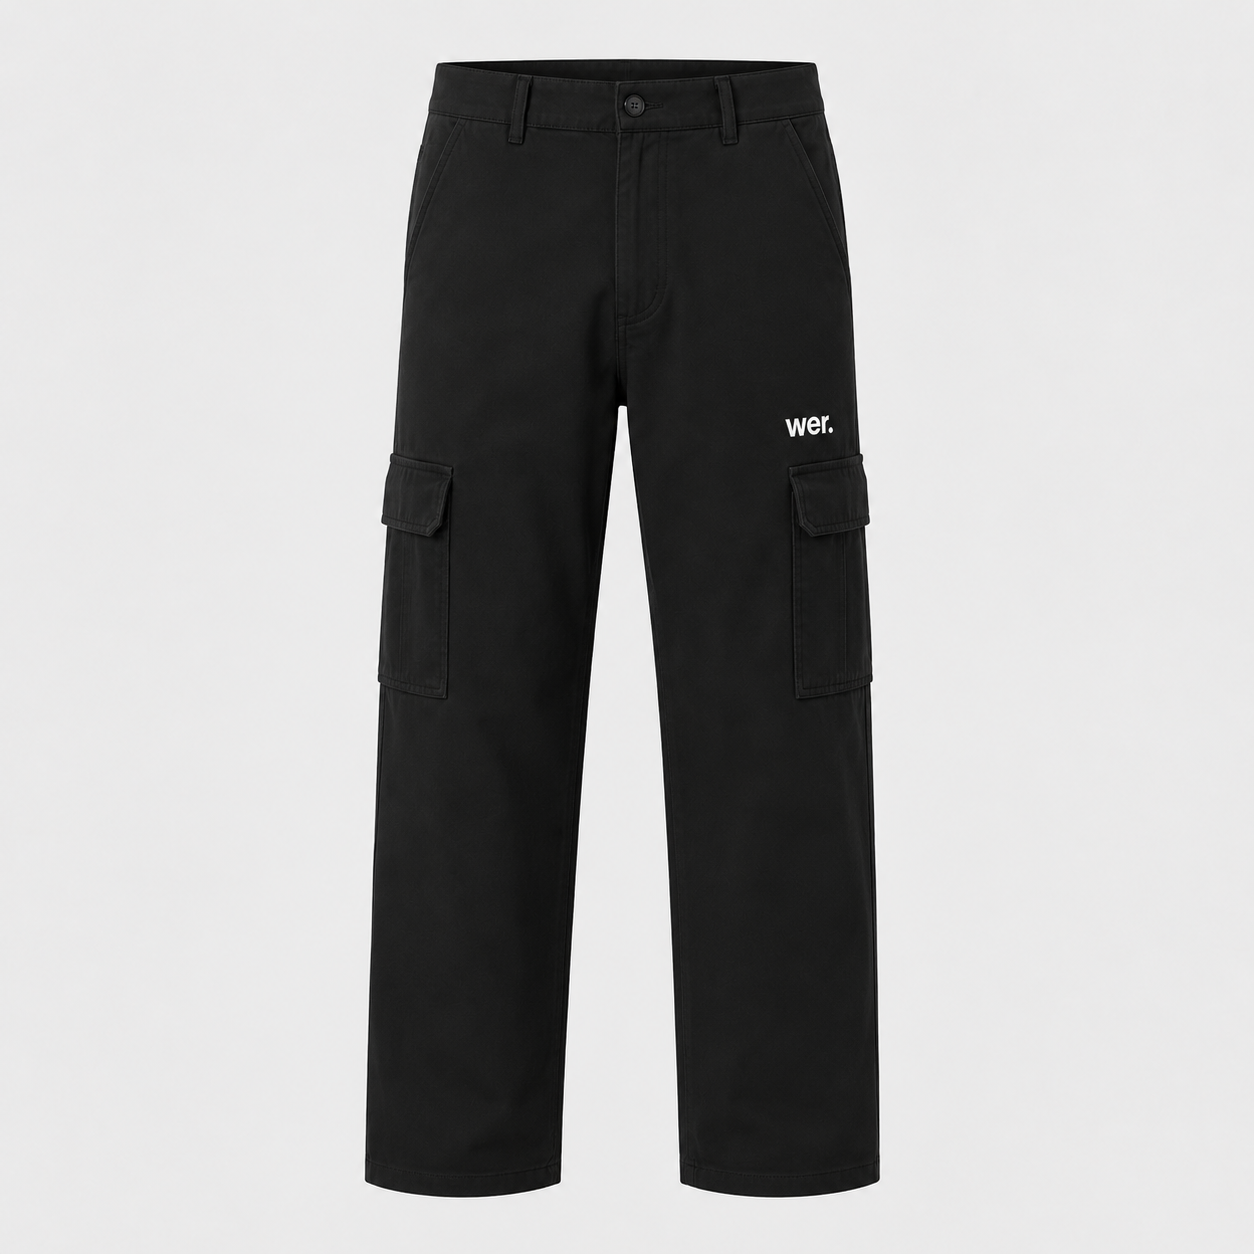
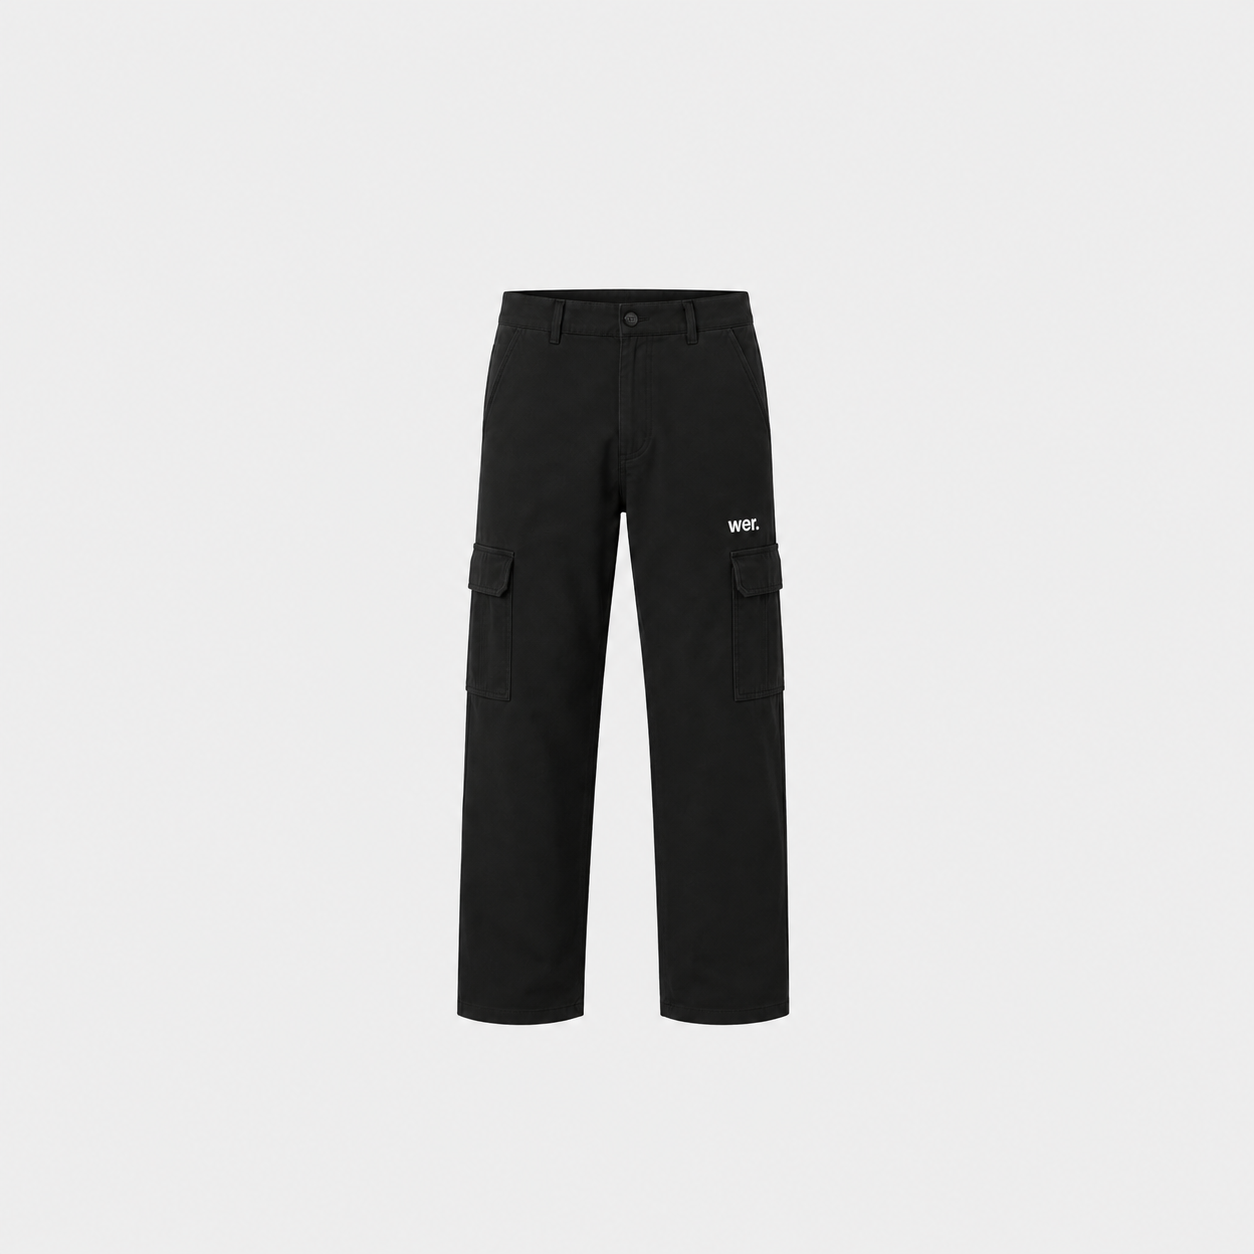
update

Changed region(s): [[0.2799, 0.0311, 0.7153, 0.9641]]

diff --git a/vite.config.js b/vite.config.js
@@ -18,6 +18,10 @@ export default defineConfig({
         },
     },
     server: {
+        host: '0.0.0.0',
+        hmr: {
+            host: '192.168.1.3',
+        },
         watch: {
             ignored: ['**/storage/framework/views/**'],
         },

diff --git a/resources/css/app.css b/resources/css/app.css
@@ -34,7 +34,7 @@
         @apply h-[100svh] w-full p-[5px] md:p-[10px];
     }
     .hero-inner {
-        @apply relative w-full h-full overflow-hidden rounded-lg md:rounded-xl flex items-center justify-center;
+        @apply relative w-full h-full overflow-hidden rounded-xl md:rounded-4xl flex items-center justify-center;
         border-bottom-right-radius: 0;
         border: none;
     }

diff --git a/resources/views/shop/home.blade.php b/resources/views/shop/home.blade.php
@@ -2,7 +2,8 @@
 @section('content')
     <section class="hero-home">
         <div class="hero-inner">
-            <img src="{{ asset('images/hero.png') }}" alt="Hero Background" class="hero-video">
+            <img src="{{ asset('images/hero.png') }}" alt="Hero Background"
+                class="hero-video object-[75%_center] md:object-center">
             <div class="absolute bottom-3 md:bottom-9 left-0 z-10 text-left text-white px-3 md:px-9 max-w-5xl">
                 <h1 class="text-2xl md:text-6xl font-light mb-2 tracking-tight">Moroccan Roots. Modern Essentials.</h1>
                 <p class="text-sm md:text-lg mb-5 font-light text-white/70 max-w-2xl tracking-tighter">
@@ -75,65 +76,78 @@
     </section>
 
     <!-- Products Section -->
-    <section id="products-section" class="pt-12 section-padding scroll-mt-20">
+    <section id="products-section" class="pt-3 md section-padding scroll-mt-20">
         <div class="w-full">
             @if($products->count() > 0)
-            <div class="grid grid-cols-2 gap-3 md:gap-12">
-                @foreach($products as $index => $product)
-                    <a href="{{ route('products.show', $product->slug) }}"
-                        class="group relative aspect-square overflow-hidden rounded-xl md:rounded-4xl bg-neutral-100">
-                        <img src="{{ $product->main_image }}" alt="{{ $product->name }}"
-                            class="absolute inset-0 w-full h-full object-cover transition-transform duration-1000">
+                <div class="grid grid-cols-1 md:grid-cols-2 gap-3 md:gap-12">
+                    @foreach($products as $index => $product)
+                        <a href="{{ route('products.show', $product->slug) }}"
+                            class="group relative aspect-square overflow-hidden rounded-xl md:rounded-4xl bg-neutral-100 border-2 border-neutral-200">
+                            <img src="{{ $product->main_image }}" alt="{{ $product->name }}"
+                                class="absolute inset-0 w-full h-full object-cover transition-transform duration-1000">
 
-                        <!-- Content -->
-                        <div class="absolute inset-0">
-                            <!-- Top Right: View Details (Hero Style) -->
-                            <div class="absolute top-4 right-4 md:top-6 md:right-6 z-20">
-                                <div
-                                    class="inline-flex items-center gap-3 md:gap-5 pl-4 pr-1 py-1 rounded-full bg-white text-black font-light transition-all duration-500 text-[10px] md:text-sm tracking-tight opacity-0 group-hover:opacity-100 translate-y-2 group-hover:translate-y-0">
-                                    <span class="hidden md:inline">View Details</span>
+                            <!-- Content -->
+                            <div class="absolute inset-0">
+                                <!-- Top Right: View Details (Hero Style) -->
+                                <div class="absolute top-4 right-4 md:top-6 md:right-6 z-20">
                                     <div
-                                        class="w-7 h-7 md:w-10 md:h-10 bg-[#0a0a0a] rounded-full flex items-center justify-center overflow-hidden relative">
+                                        class="inline-flex items-center gap-3 md:gap-5 pl-4 pr-1 py-1 rounded-full bg-white text-black font-light transition-all duration-500 text-[10px] md:text-sm tracking-tight opacity-0 group-hover:opacity-100 translate-y-2 group-hover:translate-y-0">
+                                        <span class="hidden md:inline">View Details</span>
                                         <div
-                                            class="relative w-3.5 h-3.5 md:w-5 md:h-5 transition-transform duration-[400ms] ease-out group-hover:translate-x-8 group-hover:-translate-y-8">
-                                            <svg class="absolute inset-0 w-full h-full text-white"
-                                                xmlns="http://www.w3.org/2000/svg" viewBox="0 0 24 24" fill="none"
-                                                stroke="currentColor" stroke-width="2.5" stroke-linecap="round"
-                                                stroke-linejoin="round">
-                                                <line x1="7" y1="17" x2="17" y2="7"></line>
-                                                <polyline points="7 7 17 7 17 17"></polyline>
-                                            </svg>
-                                            <svg class="absolute inset-0 w-full h-full text-white -translate-x-8 translate-y-8"
-                                                xmlns="http://www.w3.org/2000/svg" viewBox="0 0 24 24" fill="none"
-                                                stroke="currentColor" stroke-width="2.5" stroke-linecap="round"
-                                                stroke-linejoin="round">
-                                                <line x1="7" y1="17" x2="17" y2="7"></line>
-                                                <polyline points="7 7 17 7 17 17"></polyline>
-                                            </svg>
+                                            class="w-7 h-7 md:w-10 md:h-10 bg-[#0a0a0a] rounded-full flex items-center justify-center overflow-hidden relative">
+                                            <div
+                                                class="relative w-3.5 h-3.5 md:w-5 md:h-5 transition-transform duration-[400ms] ease-out group-hover:translate-x-8 group-hover:-translate-y-8">
+                                                <svg class="absolute inset-0 w-full h-full text-white"
+                                                    xmlns="http://www.w3.org/2000/svg" viewBox="0 0 24 24" fill="none"
+                                                    stroke="currentColor" stroke-width="2.5" stroke-linecap="round"
+                                                    stroke-linejoin="round">
+                                                    <line x1="7" y1="17" x2="17" y2="7"></line>
+                                                    <polyline points="7 7 17 7 17 17"></polyline>
+                                                </svg>
+                                                <svg class="absolute inset-0 w-full h-full text-white -translate-x-8 translate-y-8"
+                                                    xmlns="http://www.w3.org/2000/svg" viewBox="0 0 24 24" fill="none"
+                                                    stroke="currentColor" stroke-width="2.5" stroke-linecap="round"
+                                                    stroke-linejoin="round">
+                                                    <line x1="7" y1="17" x2="17" y2="7"></line>
+                                                    <polyline points="7 7 17 7 17 17"></polyline>
+                                                </svg>
+                                            </div>
                                         </div>
                                     </div>
                                 </div>
-                            </div>
 
-                            <!-- Bottom: Name and Price -->
-                            <div class="absolute bottom-3 left-3 right-3 md:bottom-6 md:left-6 md:right-6 flex items-end justify-between text-[#0a0a0a]">
-                                <h3 class="text-sm md:text-5xl font-light tracking-tight leading-none">{{ $product->name }}</h3>
-                                <div class="text-right shrink-0 leading-none">
-                                    <span class="text-xs md:text-3xl font-light tracking-tighter leading-none">{{ number_format($product->price, 2) }} MAD</span>
+                                <!-- Bottom: Name and Price -->
+                                <div
+                                    class="absolute bottom-3 left-3 right-3 md:bottom-6 md:left-6 md:right-6 flex items-end justify-between text-[#0a0a0a]">
+                                    <h3 class="text-md md:text-4xl font-light tracking-tight leading-none">{{ $product->name }}</h3>
+                                    <div class="text-right shrink-0 leading-none">
+                                        <span
+                                            class="text-sm md:text-2xl font-light tracking-tighter leading-none">{{ number_format($product->price, 2) }}
+                                            MAD</span>
+                                    </div>
                                 </div>
                             </div>
-                        </div>
-                    </a>
-                @endforeach
-            </div>
-            @else
-            <div class="flex flex-col items-center justify-center py-20 px-4 text-center">
-                <div class="w-16 h-16 mb-4 rounded-full bg-neutral-100 flex items-center justify-center text-neutral-400">
-                    <svg xmlns="http://www.w3.org/2000/svg" width="24" height="24" viewBox="0 0 24 24" fill="none" stroke="currentColor" stroke-width="2" stroke-linecap="round" stroke-linejoin="round"><path d="m2 7 4.41-4.41A2 2 0 0 1 7.83 2h8.34a2 2 0 0 1 1.42.59L22 7"/><path d="M4 12v8a2 2 0 0 0 2 2h12a2 2 0 0 0 2-2v-8"/><path d="M15 22v-4a2 2 0 0 0-2-2h-2a2 2 0 0 0-2 2v4"/><path d="M2 7h20"/><path d="M22 7v3a2 2 0 0 1-2 2v0a2.7 2.7 0 0 1-1.59-.63.7.7 0 0 0-.82 0A2.7 2.7 0 0 1 16 12a2.7 2.7 0 0 1-1.59-.63.7.7 0 0 0-.82 0A2.7 2.7 0 0 1 12 12a2.7 2.7 0 0 1-1.59-.63.7.7 0 0 0-.82 0A2.7 2.7 0 0 1 8 12a2.7 2.7 0 0 1-1.59-.63.7.7 0 0 0-.82 0A2.7 2.7 0 0 1 4 12v0a2 2 0 0 1-2-2V7"/></svg>
+                        </a>
+                    @endforeach
                 </div>
-                <h3 class="text-xl md:text-2xl font-light tracking-tight text-neutral-900 mb-2">New collection arriving soon</h3>
-                <p class="text-neutral-500 font-light text-sm max-w-sm">We are currently preparing our next drop. Stay tuned for new releases.</p>
-            </div>
+            @else
+                <div class="flex flex-col items-center justify-center py-20 px-4 text-center">
+                    <div class="w-16 h-16 mb-4 rounded-full bg-neutral-100 flex items-center justify-center text-neutral-400">
+                        <svg xmlns="http://www.w3.org/2000/svg" width="24" height="24" viewBox="0 0 24 24" fill="none"
+                            stroke="currentColor" stroke-width="2" stroke-linecap="round" stroke-linejoin="round">
+                            <path d="m2 7 4.41-4.41A2 2 0 0 1 7.83 2h8.34a2 2 0 0 1 1.42.59L22 7" />
+                            <path d="M4 12v8a2 2 0 0 0 2 2h12a2 2 0 0 0 2-2v-8" />
+                            <path d="M15 22v-4a2 2 0 0 0-2-2h-2a2 2 0 0 0-2 2v4" />
+                            <path d="M2 7h20" />
+                            <path
+                                d="M22 7v3a2 2 0 0 1-2 2v0a2.7 2.7 0 0 1-1.59-.63.7.7 0 0 0-.82 0A2.7 2.7 0 0 1 16 12a2.7 2.7 0 0 1-1.59-.63.7.7 0 0 0-.82 0A2.7 2.7 0 0 1 12 12a2.7 2.7 0 0 1-1.59-.63.7.7 0 0 0-.82 0A2.7 2.7 0 0 1 8 12a2.7 2.7 0 0 1-1.59-.63.7.7 0 0 0-.82 0A2.7 2.7 0 0 1 4 12v0a2 2 0 0 1-2-2V7" />
+                        </svg>
+                    </div>
+                    <h3 class="text-xl md:text-2xl font-light tracking-tight text-neutral-900 mb-2">New collection arriving soon
+                    </h3>
+                    <p class="text-neutral-500 font-light text-sm max-w-sm">We are currently preparing our next drop. Stay tuned
+                        for new releases.</p>
+                </div>
             @endif
         </div>
     </section>
@@ -157,46 +171,52 @@
                             Define Your New Standard
                         </h2>
                         <p class="text-white/80 text-sm md:text-base font-light tracking-tighter">
-                            At Wer, we believe in the power of intentionality. Our curated collections are more than just
-                            products; they are a reflection of a modern philosophy that values quality, sustainability, and
-                            timeless design. By joining our inner circle, you’ll receive early access to our limited
-                            seasonal drops, exclusive behind-the-scenes insights from our studio, and curated content
-                            designed to inspire your journey. This is your gateway to a refined lifestyle, where every
-                            detail is considered and every piece tells a story.
+                            At wer. we keep things intentional — limited drops, quality pieces,
+                            and nothing wasted. Join the inner circle for early access, exclusive
+                            updates, and a first look at what's coming next.
                         </p>
 
-                        <!-- Social Proof -->
-                        <div class="flex items-center gap-4 mt-4">
-                            <div class="flex -space-x-3">
-                                <img src="https://images.pexels.com/photos/6102841/pexels-photo-6102841.jpeg"
-                                    alt="Subscriber" class="w-10 h-10 rounded-full border-2 border-white/10 object-cover">
-                                <img src="https://images.pexels.com/photos/10634704/pexels-photo-10634704.jpeg"
-                                    alt="Subscriber" class="w-10 h-10 rounded-full border-2 border-white/10 object-cover">
-                                <img src="https://images.pexels.com/photos/11718221/pexels-photo-11718221.jpeg"
-                                    alt="Subscriber" class="w-10 h-10 rounded-full border-2 border-white/10 object-cover">
-                                <img src="https://images.pexels.com/photos/9696165/pexels-photo-9696165.jpeg"
-                                    alt="Subscriber" class="w-10 h-10 rounded-full border-2 border-white/10 object-cover">
-                            </div>
-                            <span class="text-white/90 text-sm font-light tracking-tighter">
-                                <span class="font-medium">600+</span> individuals already joined
-                            </span>
-                        </div>
                     </div>
 
                     <!-- Right Content (Newsletter) -->
                     <div class="flex justify-center lg:justify-end">
-                        <form id="newsletterForm" class="w-full max-w-md">
-                            <div class="relative p-1 bg-white/10 backdrop-blur-xl border border-white/20 rounded-full focus-within:border-white transition-all">
-                                <input type="email" id="newsletterEmail" placeholder="Enter your email"
-                                    class="bg-transparent pl-5 md:pl-8 pr-24 md:pr-32 py-2.5 md:py-3.5 w-full focus:outline-none text-white text-sm md:text-base placeholder-white/40 font-medium"
-                                    required>
-                                <button type="submit"
-                                    class="absolute right-1 top-1 bottom-1 bg-white text-[#0a0a0a] px-5 md:px-8 rounded-full font-bold hover:bg-neutral-100 transition-all text-[10px] md:text-xs tracking-widest cursor-pointer">
-                                    Subscribe
-                                </button>
+                        <div class="w-full max-w-md">
+                            <form id="newsletterForm" class="w-full">
+                                <div
+                                    class="relative p-1 bg-white/10 backdrop-blur-xl border border-white/20 rounded-full focus-within:border-white transition-all">
+                                    <input type="email" id="newsletterEmail" placeholder="Enter your email"
+                                        class="bg-transparent pl-5 md:pl-8 pr-24 md:pr-32 py-2.5 md:py-3.5 w-full focus:outline-none text-white text-sm md:text-base placeholder-white/40 font-medium rounded-full [&:-webkit-autofill]:[transition:background-color_5000s_ease-in-out_0s] [&:-webkit-autofill]:[-webkit-text-fill-color:white]"
+                                        required>
+                                    <button type="submit"
+                                        class="absolute right-1 top-1 bottom-1 bg-white text-[#0a0a0a] px-5 md:px-8 rounded-full font-bold hover:bg-neutral-100 transition-all text-[10px] md:text-xs tracking-widest cursor-pointer">
+                                        Subscribe
+                                    </button>
+                                </div>
+                                <p id="newsletterMsg" class="mt-4 text-xs font-medium hidden text-center lg:text-left px-4">
+                                </p>
+                            </form>
+
+                            <!-- Social Proof -->
+                            <div class="flex items-center justify-center lg:justify-start gap-4 mt-6 px-2">
+                                <div class="flex -space-x-3">
+                                    <img src="https://images.pexels.com/photos/6102841/pexels-photo-6102841.jpeg"
+                                        alt="Subscriber"
+                                        class="w-10 h-10 rounded-full border-2 border-white/10 object-cover">
+                                    <img src="https://images.pexels.com/photos/10634704/pexels-photo-10634704.jpeg"
+                                        alt="Subscriber"
+                                        class="w-10 h-10 rounded-full border-2 border-white/10 object-cover">
+                                    <img src="https://images.pexels.com/photos/11718221/pexels-photo-11718221.jpeg"
+                                        alt="Subscriber"
+                                        class="w-10 h-10 rounded-full border-2 border-white/10 object-cover">
+                                    <img src="https://images.pexels.com/photos/9696165/pexels-photo-9696165.jpeg"
+                                        alt="Subscriber"
+                                        class="w-10 h-10 rounded-full border-2 border-white/10 object-cover">
+                                </div>
+                                <span class="text-white/90 text-sm font-light tracking-tighter">
+                                    <span class="font-medium">600+</span> individuals already joined
+                                </span>
                             </div>
-                            <p id="newsletterMsg" class="mt-4 text-xs font-medium hidden text-center lg:text-left px-4"></p>
-                        </form>
+                        </div>
                     </div>
                 </div>
             </div>

diff --git a/resources/views/admin/subscribers/index.blade.php b/resources/views/admin/subscribers/index.blade.php
@@ -1,0 +1,48 @@
+@extends('admin.layout')
+@section('title', 'Subscribers')
+@section('content')
+<div class="flex justify-between items-center mb-8">
+    <p class="text-gray-400 text-sm uppercase tracking-widest">{{ $subscribers->total() }} Total Subscribers</p>
+</div>
+
+<div class="overflow-x-auto">
+    <table class="w-full text-left">
+        <thead>
+            <tr class="border-b border-gray-100">
+                <th class="pb-4 text-[10px] uppercase tracking-widest text-gray-400 font-bold">Email</th>
+                <th class="pb-4 text-[10px] uppercase tracking-widest text-gray-400 font-bold">Subscribed Date</th>
+                <th class="pb-4 text-[10px] uppercase tracking-widest text-gray-400 font-bold text-right">Actions</th>
+            </tr>
+        </thead>
+        <tbody class="divide-y divide-gray-50">
+            @forelse($subscribers as $subscriber)
+            <tr class="group hover:bg-gray-50/50 transition-colors">
+                <td class="py-4">
+                    <p class="font-bold text-sm tracking-tight">{{ $subscriber->email }}</p>
+                </td>
+                <td class="py-4">
+                    <p class="text-sm text-gray-600">{{ $subscriber->created_at->format('M d, Y') }}</p>
+                </td>
+                <td class="py-4 text-right">
+                    <form action="{{ route('admin.subscribers.destroy', $subscriber->id) }}" method="POST" class="inline-block" onsubmit="return confirm('Are you sure you want to delete this subscriber?');">
+                        @csrf
+                        @method('DELETE')
+                        <button type="submit" class="bg-red-50 hover:bg-red-600 text-red-600 hover:text-white px-4 py-2 rounded-lg text-[10px] font-bold uppercase tracking-widest transition-all">Delete</button>
+                    </form>
+                </td>
+            </tr>
+            @empty
+            <tr>
+                <td colspan="3" class="py-20 text-center">
+                    <p class="text-gray-400 uppercase tracking-widest text-xs font-bold">No subscribers found yet</p>
+                </td>
+            </tr>
+            @endforelse
+        </tbody>
+    </table>
+</div>
+
+<div class="mt-8">
+    {{ $subscribers->links() }}
+</div>
+@endsection

diff --git a/app/Http/Controllers/Admin/SubscriberController.php b/app/Http/Controllers/Admin/SubscriberController.php
@@ -1,0 +1,24 @@
+<?php
+
+namespace App\Http\Controllers\Admin;
+
+use App\Http\Controllers\Controller;
+use App\Models\NewsletterSubscriber;
+use Illuminate\Http\Request;
+
+class SubscriberController extends Controller
+{
+    public function index()
+    {
+        $subscribers = NewsletterSubscriber::latest()->paginate(20);
+        return view('admin.subscribers.index', compact('subscribers'));
+    }
+
+    public function destroy($id)
+    {
+        $subscriber = NewsletterSubscriber::findOrFail($id);
+        $subscriber->delete();
+
+        return redirect()->route('admin.subscribers.index')->with('success', 'Subscriber deleted successfully.');
+    }
+}

diff --git a/app/Http/Controllers/Shop/NewsletterController.php b/app/Http/Controllers/Shop/NewsletterController.php
@@ -11,8 +11,17 @@ class NewsletterController extends Controller
     public function store(Request $request)
     {
         $validated = $request->validate([
-            'email' => 'required|email|max:255|unique:newsletter_subscribers,email',
+            'email' => 'required|email|max:255',
         ]);
+
+        $existing = NewsletterSubscriber::where('email', $validated['email'])->first();
+
+        if ($existing) {
+            return response()->json([
+                'success' => false,
+                'message' => 'This email already we have it',
+            ]);
+        }
 
         NewsletterSubscriber::create($validated);
 

diff --git a/resources/views/admin/layout.blade.php b/resources/views/admin/layout.blade.php
@@ -31,6 +31,9 @@
                 <a href="{{ route('admin.orders.index') }}" class="admin-nav-link {{ request()->routeIs('admin.orders.*') ? 'active' : '' }}">
                     <span class="text-sm">Order History</span>
                 </a>
+                <a href="{{ route('admin.subscribers.index') }}" class="admin-nav-link {{ request()->routeIs('admin.subscribers.*') ? 'active' : '' }}">
+                    <span class="text-sm">Subscribers</span>
+                </a>
             </nav>
             
             <div class="mt-auto px-4 pt-10 border-t border-gray-100">

diff --git a/routes/web.php b/routes/web.php
@@ -38,5 +38,8 @@ Route::prefix('admin')->name('admin.')->group(function () {
         Route::get('/orders', [OrderController::class, 'index'])->name('orders.index');
         Route::get('/orders/{id}', [OrderController::class, 'show'])->name('orders.show');
         Route::put('/orders/{id}/status', [OrderController::class, 'updateStatus'])->name('orders.status');
+
+        Route::get('/subscribers', [\App\Http\Controllers\Admin\SubscriberController::class, 'index'])->name('subscribers.index');
+        Route::delete('/subscribers/{id}', [\App\Http\Controllers\Admin\SubscriberController::class, 'destroy'])->name('subscribers.destroy');
     });
 });

diff --git a/resources/views/shop/about.blade.php b/resources/views/shop/about.blade.php
@@ -12,7 +12,7 @@
         </div>
     </section>
 
-    <section class="py-24 section-padding bg-white">
+    <section class="py-3 md:py-12 section-padding bg-white">
         <div class="w-full grid grid-cols-1 md:grid-cols-2 gap-16 items-center">
             <div class="aspect-square bg-[#f0f0f0] overflow-hidden rounded-2xl border border-gray-100">
                 <img src="/images/about.png" alt="Team" class="w-full h-full object-cover">

diff --git a/resources/views/shop/contact.blade.php b/resources/views/shop/contact.blade.php
@@ -12,7 +12,7 @@
     </div>
 </section>
 
-<section class="py-24 section-padding bg-transparent">
+<section class="py-3 md:py-24 section-padding bg-transparent">
     <div class="w-full grid grid-cols-1 md:grid-cols-2 gap-20">
         <div>
             <h2 class="text-2xl md:text-5xl font-light text-[#0a0a0a] mb-10 leading-[1.1] tracking-tighter">Contact Info</h2>

diff --git a/resources/views/shop/support.blade.php b/resources/views/shop/support.blade.php
@@ -12,7 +12,7 @@
         </div>
     </section>
 
-    <section class="py-8 section-padding bg-white">
+    <section class="py-3 md:py-8 section-padding bg-white">
         <div class="w-full flex flex-col md:flex-row gap-10">
             <!-- Sidebar -->
             <aside class="md:w-1/5">